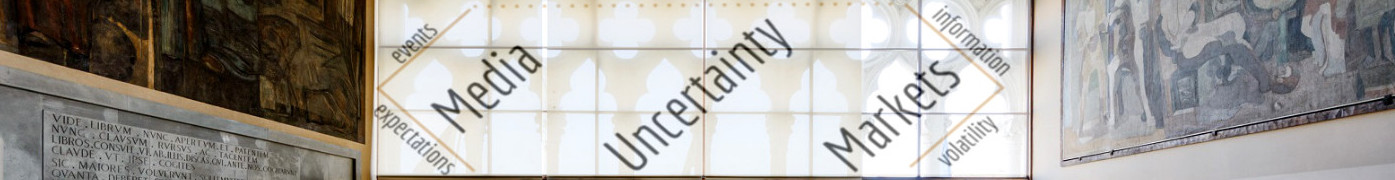
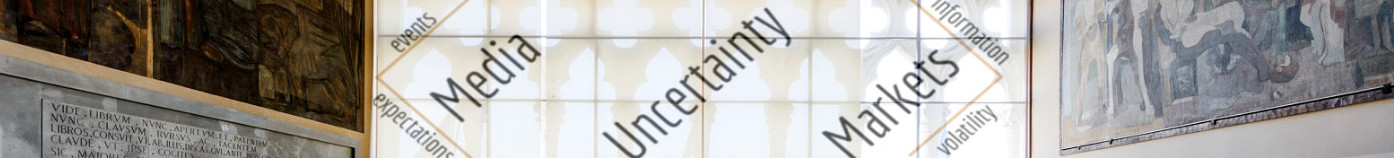
new header

diff --git a/css/main.css b/css/main.css
@@ -557,7 +557,7 @@ footer .theme-by {
   }
   .intro-header.big-img {
     width: 100%;
-    height: 350px;
+    height: 200px;
   }
   .intro-header.big-img .page-heading,
   .intro-header.big-img .post-heading {
@@ -569,7 +569,7 @@ footer .theme-by {
 }
 @media only screen and (max-width: 325px) {
   .intro-header.big-img {
-    height: 350px;
+    height: 200px;
   }
 }
 
